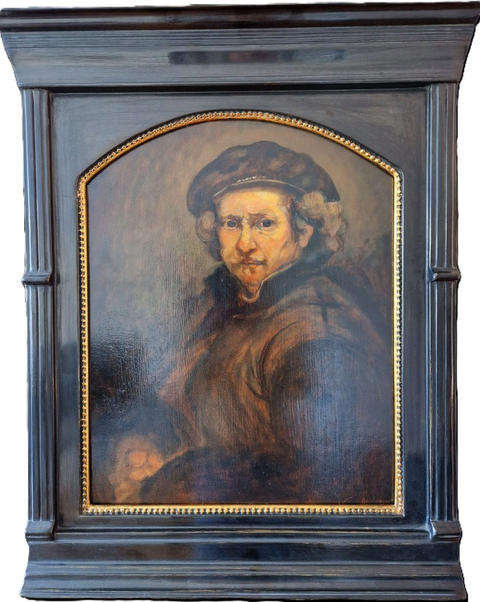
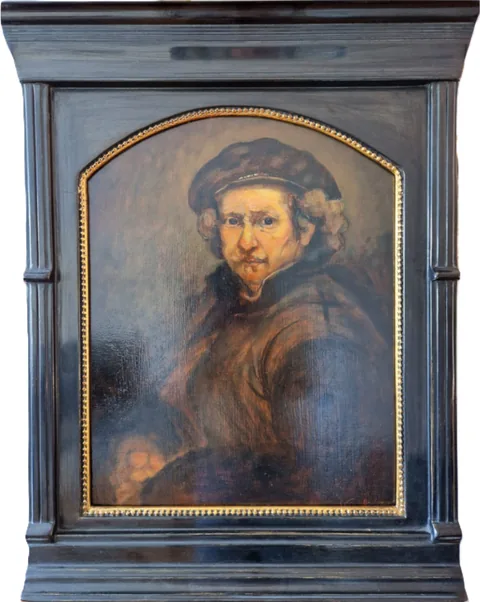
Fix portfolio/about layout issues and update rembrandt portfolio asset

diff --git a/index.html b/index.html
@@ -1,4 +1,4 @@
-<!DOCTYPE html><html lang="nl"><head>
+<!DOCTYPE html><html lang="nl"><head>
 <meta charset="UTF-8">
     <meta name="viewport" content="width=device-width, initial-scale=1.0">
     <link rel="apple-touch-icon" sizes="180x180" href="favicon/apple-touch-icon.png">
@@ -16,14 +16,14 @@
 
       gtag('config', 'G-C3B1YW6YL1');
     </script>
-    <title>Lijstenmaker Voorhout | De Lijsterij � Maatwerk Inlijsten &amp; Restauratie</title>
+    <title>Lijstenmaker Voorhout | De Lijsterij ï¿½ Maatwerk Inlijsten &amp; Restauratie</title>
     <meta name="description" content="Lijstenmaker in Voorhout (Bollenstreek). Maatwerk inlijsten, museumglas en restauratie. Persoonlijk advies voor particulieren en kunstenaars. Bekijk het portfolio en plan een afspraak.">
     <link rel="canonical" href="https://delijsterij.nl/">
     <meta property="og:type" content="website">
     <meta property="og:locale" content="nl_NL">
     <meta property="og:url" content="https://delijsterij.nl/">
     <meta property="og:site_name" content="De Lijsterij">
-    <meta property="og:title" content="Lijstenmaker Voorhout | De Lijsterij � Maatwerk Inlijsten &amp; Restauratie">
+    <meta property="og:title" content="Lijstenmaker Voorhout | De Lijsterij ï¿½ Maatwerk Inlijsten &amp; Restauratie">
     <meta property="og:description" content="Lijstenmaker in Voorhout (Bollenstreek). Maatwerk inlijsten, museumglas en restauratie. Persoonlijk advies voor particulieren en kunstenaars. Bekijk het portfolio en plan een afspraak.">
     <meta property="og:image" content="https://delijsterij.nl/assets/images/portfolio/bekroond-tabernakellijst.jpg">
     <meta name="twitter:card" content="summary_large_image">
@@ -51,8 +51,8 @@
     <link rel="preconnect" href="https://fonts.googleapis.com">
     <link rel="preconnect" href="https://fonts.gstatic.com" crossorigin="">
     <link href="https://fonts.googleapis.com/css2?family=Playfair+Display:ital,wght@0,400;0,500;1,400;1,500&amp;family=DM+Sans:wght@300;400;500&amp;display=swap" rel="stylesheet">
-    <link rel="preload" href="assets/css/main.css?v=20260502ui1" as="style" onload="this.onload=null;this.rel='stylesheet'">
-    <noscript><link rel="stylesheet" href="assets/css/main.css?v=20260502ui1"></noscript>
+    <link rel="preload" href="assets/css/main.css?v=20260504ui2" as="style" onload="this.onload=null;this.rel='stylesheet'">
+    <noscript><link rel="stylesheet" href="assets/css/main.css?v=20260504ui2"></noscript>
   </head>
   <body>
 <header class="site-header site-header--home" id="top">
@@ -103,7 +103,7 @@
           </p>
           <p class="hero-sub hero-sub--secondary" data-content-key="index.hero-sub.2">
             Of het nu gaat om een modern werk of een dierbare herinnering: ik zorg ervoor dat elk
-            object de aandacht en bescherming krijgt die het verdient � uit liefde voor kunst
+            object de aandacht en bescherming krijgt die het verdient ï¿½ uit liefde voor kunst
             en schoonheid is De Lijsterij ontstaan.
           </p>
           <div class="hero-pillars">
@@ -149,12 +149,12 @@
           <div class="section-eyebrow" data-content-key="index.section-eyebrow.1">Inlijsten</div>
           <h2 data-content-key="index.h2.1">Wat De Lijsterij voor u kan <em>betekenen</em></h2>
           <p class="section-sub" data-content-key="index.section-sub.1">
-            Van kunst en foto�s tot sporttrofee�n, borduurwerk, kledingstukken en
+            Van kunst en fotoï¿½s tot sporttrofeeï¿½n, borduurwerk, kledingstukken en
             bijzondere objecten: er is vaak veel meer mogelijk dan u denkt.
           </p>
           <p class="section-sub" data-content-key="index.section-sub.2">
             Met maatwerk, passe-partout, museumglas en persoonlijk advies zoeken we samen naar een
-            oplossing die recht doet aan het werk �n aan uw interieur.
+            oplossing die recht doet aan het werk ï¿½n aan uw interieur.
           </p>
         </div>
         <div class="diensten-grid">
@@ -193,7 +193,7 @@
               <div class="dienst-name" data-content-key="index.dienst-name.3">Museumglas</div>
               <p class="dienst-desc" data-content-key="index.dienst-desc.3">
                 Anti-reflecterend en UV-werend glas beschermt uw kunstwerk tegen licht, stof en
-                vocht � onzichtbaar maar essentieel.
+                vocht ï¿½ onzichtbaar maar essentieel.
               </p>
             </div>
             <div class="dienst-icon">
@@ -269,7 +269,7 @@
               <div class="portfolio-frame-deco"></div>
               <div class="portfolio-center">
                 <div class="portfolio-icon">
-                  Bekroond werk<br>Tabernakellijst � diepe kleurwerking
+                  Bekroond werk<br>Tabernakellijst ï¿½ diepe kleurwerking
                 </div>
               </div>
               <span class="portfolio-label" data-content-key="index.portfolio-label.1">Handgemaakte lijst</span>
@@ -279,7 +279,7 @@
             <div class="portfolio-inner portfolio-inner--bloemwerk">
               <div class="portfolio-frame-deco"></div>
               <div class="portfolio-center">
-                <div class="portfolio-icon">Schilderij � klassieke eiken lijst</div>
+                <div class="portfolio-icon">Schilderij ï¿½ klassieke eiken lijst</div>
               </div>
               <span class="portfolio-label" data-content-key="index.portfolio-label.2">Bloemwerk</span>
             </div>
@@ -288,7 +288,7 @@
             <div class="portfolio-inner portfolio-inner--restauratie">
               <div class="portfolio-frame-deco"></div>
               <div class="portfolio-center">
-                <div class="portfolio-icon">Restauratie � zwaar beschadigde lijst</div>
+                <div class="portfolio-icon">Restauratie ï¿½ zwaar beschadigde lijst</div>
               </div>
               <span class="portfolio-label" data-content-key="index.portfolio-label.3">Restauratie</span>
             </div>
@@ -297,7 +297,7 @@
             <div class="portfolio-inner portfolio-inner--objectlijst">
               <div class="portfolio-frame-deco"></div>
               <div class="portfolio-center">
-                <div class="portfolio-icon">Objectlijst � 3D-inlijsting</div>
+                <div class="portfolio-icon">Objectlijst ï¿½ 3D-inlijsting</div>
               </div>
               <span class="portfolio-label" data-content-key="index.portfolio-label.4">Bijzonder object</span>
             </div>
@@ -320,33 +320,33 @@
         </div>
         <div class="reviews-grid">
           <div class="review-card">
-            <div class="stars">?????</div>
+            <div class="stars">★★★★★</div>
             <p class="review-text" data-content-key="index.review-text.1">
               "Karolien begrijpt als kunstenaar zelf wat een werk nodig heeft. Ze kijkt naar het
               stuk, niet alleen naar de maat. Dat maakt het verschil."
             </p>
             <div class="review-author" data-content-key="index.review-author.1">
-              <strong>Yvonne Heemskerk</strong> � winnaar De Nieuwe Vermeer
+              <strong>Yvonne Heemskerk</strong> ï¿½ winnaar De Nieuwe Vermeer
             </div>
           </div>
           <div class="review-card">
-            <div class="stars">?????</div>
+            <div class="stars">★★★★★</div>
             <p class="review-text" data-content-key="index.review-text.2">
               "Karolien heeft echt de tijd genomen om naar mijn schilderij te kijken. Het resultaat
-              overtreft mijn verwachtingen � de lijst lijkt altijd al bij het werk te hebben
+              overtreft mijn verwachtingen ï¿½ de lijst lijkt altijd al bij het werk te hebben
               gehoord."
             </p>
             <div class="review-author" data-content-key="index.review-author.2">
-              <strong>Marjan V.</strong> � particuliere klant, Oegstgeest
+              <strong>Marjan V.</strong> ï¿½ particuliere klant, Oegstgeest
             </div>
           </div>
           <div class="review-card">
-            <div class="stars">?????</div>
+            <div class="stars">★★★★★</div>
             <p class="review-text" data-content-key="index.review-text.3">
               "Als fotograaf ben ik kieskeurig over hoe mijn werk gepresenteerd wordt. Bij De
               Lijsterij word ik echt gehoord. Prachtig vakmanschap, elke keer weer."
             </p>
-            <div class="review-author" data-content-key="index.review-author.3"><strong>Thomas B.</strong> � fotograaf, Leiden</div>
+            <div class="review-author" data-content-key="index.review-author.3"><strong>Thomas B.</strong> ï¿½ fotograaf, Leiden</div>
           </div>
         </div>
       </section>
@@ -359,7 +359,7 @@
             <div class="section-eyebrow section-eyebrow-accent" data-content-key="index.section-eyebrow.4">
               <span class="section-eyebrow-line"></span>Over Karolien
             </div>
-            <h2 data-content-key="index.h2.4">Karolien Kooiman �<br><em>kunstenaar &amp; inlijster</em></h2>
+            <h2 data-content-key="index.h2.4">Karolien Kooiman ï¿½<br><em>kunstenaar &amp; inlijster</em></h2>
             <p data-content-key="index.p.2">
               Uit liefde voor kunst en schoonheid is De Lijsterij geboren. Als kunstenaar begrijp ik
               als geen ander dat een werk naast financiele waarde ook een diepe emotionele betekenis
@@ -367,7 +367,7 @@
             </p>
             <p data-content-key="index.p.3">
               Daarom denk ik gepassioneerd met u mee over hoe uw kunstwerk het best tot zijn recht
-              komt � en het beste beschermd kan worden voor de volgende generaties.
+              komt ï¿½ en het beste beschermd kan worden voor de volgende generaties.
             </p>
             <p data-content-key="index.p.4">
               Ik werk uitsluitend met hoogwaardige, zuurvrije en archiveerbare materialen. Want een
@@ -415,7 +415,7 @@
                 in het atelier neem ik rustig de tijd om tot de juiste keuze te komen.
               </p>
               <p class="section-sub" data-content-key="index.section-sub.6">
-                Vrijblijvend advies, een offerte of gewoon even overleggen �<br>
+                Vrijblijvend advies, een offerte of gewoon even overleggen ï¿½<br>
                 alles is welkom. Ik neem graag de tijd voor u en uw werk.
               </p>
             </header>
@@ -426,7 +426,7 @@
               </div>
               <div class="contact-row">
                 <span class="contact-row-label" data-content-key="index.contact-row-label.2">Telefoon</span>
-                <a class="contact-row-val" href="tel:+31252123456">06 � 29 510 590</a>
+                <a class="contact-row-val" href="tel:+31252123456">06 ï¿½ 29 510 590</a>
               </div>
               <div class="contact-row">
                 <span class="contact-row-label" data-content-key="index.contact-row-label.3">E-mail</span>
@@ -438,8 +438,8 @@
               </div>
               <div class="contact-row">
                 <span class="contact-row-label" data-content-key="index.contact-row-label.5">Regio</span>
-                <span class="contact-row-val" data-content-key="index.contact-row-val.3">Voorhout � Noordwijk � Katwijk � Sassenheim � Lisse
-                  � Noordwijkerhout � Hillegom</span>
+                <span class="contact-row-val" data-content-key="index.contact-row-val.3">Voorhout ï¿½ Noordwijk ï¿½ Katwijk ï¿½ Sassenheim ï¿½ Lisse
+                  ï¿½ Noordwijkerhout ï¿½ Hillegom</span>
               </div>
             </div>
           </div>
@@ -482,7 +482,7 @@
         <span>De <em>Lijsterij</em></span>
       </div>
       <div class="footer-mid">
-        <div class="footer-copy">� 2026 De Lijsterij</div>
+        <div class="footer-copy">ï¿½ 2026 De Lijsterij</div>
       </div>
       <div class="footer-links">Design by Valknut</div>
     </footer>

diff --git a/portfolio.html b/portfolio.html
@@ -1,4 +1,4 @@
-<!DOCTYPE html><html lang="nl"><head>
+<!DOCTYPE html><html lang="nl"><head>
     <meta charset="UTF-8">
     <meta name="viewport" content="width=device-width, initial-scale=1.0">
     <link rel="apple-touch-icon" sizes="180x180" href="favicon/apple-touch-icon.png">
@@ -15,21 +15,21 @@
       gtag('config', 'G-C3B1YW6YL1');
     </script>
     <title>Portfolio ingelijst werk | De Lijsterij Voorhout</title>
-    <meta name="description" content="Tabernakellijsten, klassiek schilderijlijstwerk en objectlijsten uit het atelier in Voorhout. Laat u inspireren — plan daarna een afspraak voor uw eigen inlijsting.">
+    <meta name="description" content="Tabernakellijsten, klassiek schilderijlijstwerk en objectlijsten uit het atelier in Voorhout. Laat u inspireren â€” plan daarna een afspraak voor uw eigen inlijsting.">
     <link rel="canonical" href="https://delijsterij.nl/portfolio.html">
     <meta property="og:type" content="website">
     <meta property="og:locale" content="nl_NL">
     <meta property="og:url" content="https://delijsterij.nl/portfolio.html">
     <meta property="og:site_name" content="De Lijsterij">
     <meta property="og:title" content="Portfolio ingelijst werk | De Lijsterij Voorhout">
-    <meta property="og:description" content="Tabernakellijsten, klassiek schilderijlijstwerk en objectlijsten uit het atelier in Voorhout. Laat u inspireren — plan daarna een afspraak voor uw eigen inlijsting.">
+    <meta property="og:description" content="Tabernakellijsten, klassiek schilderijlijstwerk en objectlijsten uit het atelier in Voorhout. Laat u inspireren â€” plan daarna een afspraak voor uw eigen inlijsting.">
     <meta property="og:image" content="https://delijsterij.nl/assets/images/portfolio/bekroond-tabernakellijst.jpg">
     <meta name="twitter:card" content="summary_large_image">
     <link rel="preconnect" href="https://fonts.googleapis.com">
     <link rel="preconnect" href="https://fonts.gstatic.com" crossorigin="">
     <link href="https://fonts.googleapis.com/css2?family=Playfair+Display:ital,wght@0,400;0,500;1,400;1,500&amp;family=DM+Sans:wght@300;400;500&amp;display=swap" rel="stylesheet">
-    <link rel="preload" href="assets/css/main.css?v=20260502ui7" as="style" onload="this.onload=null;this.rel='stylesheet'">
-    <noscript><link rel="stylesheet" href="assets/css/main.css?v=20260502ui7"></noscript>
+    <link rel="preload" href="assets/css/main.css?v=20260504ui12" as="style" onload="this.onload=null;this.rel='stylesheet'">
+    <noscript><link rel="stylesheet" href="assets/css/main.css?v=20260504ui12"></noscript>
   </head>
   <body class="page-portfolio">
     <header class="site-header">
@@ -156,11 +156,11 @@
             <div class="section-eyebrow section-eyebrow-accent" data-content-key="portfolio.section-eyebrow.3">
               <span class="section-eyebrow-line"></span>Bekroond werk
             </div>
-            <h2 data-content-key="portfolio.h2.3">Tabernakellijsten —<br><em>traditie die blijft spreken</em></h2>
+            <h2 data-content-key="portfolio.h2.3">Tabernakellijsten â€”<br><em>traditie die blijft spreken</em></h2>
             <p data-content-key="portfolio.p.3">
               De tabernakellijst vindt haar oorsprong in de renaissance en is voor mij meer dan een
-              omlijsting. Door de architectonische opbouw — met zuilen, een bekroning en gelaagde
-              diepte — wordt de lijst een verlengstuk van het kunstwerk. Ze brengt rust, nadruk en
+              omlijsting. Door de architectonische opbouw â€” met zuilen, een bekroning en gelaagde
+              diepte â€” wordt de lijst een verlengstuk van het kunstwerk. Ze brengt rust, nadruk en
               aanwezigheid, en maakt dat een werk echt tot zijn recht komt.
             </p>
             <p data-content-key="portfolio.p.4">
@@ -215,7 +215,7 @@
             </a>
             <div class="portfolio-work-copy">
               <h3 data-content-key="portfolio.h3.3">Restauraties</h3>
-              <p data-content-key="portfolio.p.7">Voorbeelden van herstelwerk met “voor en na”.</p>
+              <p data-content-key="portfolio.p.7">Voorbeelden van herstelwerk met â€œvoor en naâ€.</p>
               <p data-content-key="portfolio.p.8"><a href="restauraties.html" style="color: inherit; font-weight: 500; text-decoration: underline">Meer over restauratie</a></p>
             </div>
           </article>
@@ -306,7 +306,7 @@
                   <h3 data-content-key="portfolio.h3.8">Stof en steek</h3>
                   <p data-content-key="portfolio.p.13">
                     Geborduurd blousewerk vraagt om een lichte lijst die het textiel beschermt zonder het
-                    plat te drukken, zodat de kleur en het reliëf van de steek rustig zichtbaar blijven
+                    plat te drukken, zodat de kleur en het reliÃ«f van de steek rustig zichtbaar blijven
                     achter glas.
                   </p>
                 </div>
@@ -473,7 +473,7 @@
         <span>De <em>Lijsterij</em></span>
       </div>
       <div class="footer-mid">
-        <div class="footer-copy">© 2026 De Lijsterij</div>
+        <div class="footer-copy">Â© 2026 De Lijsterij</div>
       </div>
       <div class="footer-links">Design by Valknut</div>
     </footer>

diff --git a/assets/css/main.css b/assets/css/main.css
@@ -1434,8 +1434,8 @@ h2 em {
 
 .review-text {
   font-family: 'Playfair Display', serif;
-  font-style: italic;
-  font-size: clamp(22px, 2.2vw, 30px);
+  font-style: normal;
+  font-size: clamp(18px, 1.8vw, 20px);
   line-height: 1.65;
   color: var(--ink);
   margin-bottom: 1.25rem;
@@ -2371,7 +2371,7 @@ footer {
   width: 100%;
   max-width: 560px;
   justify-self: start;
-  margin-left: -15rem;
+  margin-left: 0;
 }
 
 .story-grid--about .section-header {
@@ -2834,17 +2834,29 @@ footer {
   gap: 1.75rem;
   padding: 1.15rem;
   background: var(--cream);
+  align-items: center;
 }
 
 .portfolio-feature-image--duo img {
-  min-height: 520px;
+  min-height: 0;
+  height: auto;
+  object-fit: contain;
 }
 
 .portfolio-feature-image-rembrandt {
   background: #fff;
-  object-fit: cover;
-  object-position: 54% 49%;
+  object-fit: contain;
+  object-position: center;
   padding: 6px;
+}
+
+@media (max-width: 1200px) {
+  body.page-portfolio .portfolio-feature-image--duo img {
+    height: auto !important;
+    min-height: 0 !important;
+    max-height: none !important;
+    object-fit: contain !important;
+  }
 }
 
 .portfolio-feature-copy {

diff --git a/over-ons.html b/over-ons.html
@@ -28,8 +28,8 @@
     <link rel="preconnect" href="https://fonts.googleapis.com">
     <link rel="preconnect" href="https://fonts.gstatic.com" crossorigin="">
     <link href="https://fonts.googleapis.com/css2?family=Playfair+Display:ital,wght@0,400;0,500;1,400;1,500&amp;family=DM+Sans:wght@300;400;500&amp;display=swap" rel="stylesheet">
-    <link rel="preload" href="assets/css/main.css?v=20260502hero3" as="style" onload="this.onload=null;this.rel='stylesheet'">
-    <noscript><link rel="stylesheet" href="assets/css/main.css?v=20260502hero3"></noscript>
+    <link rel="preload" href="assets/css/main.css?v=20260504hero6" as="style" onload="this.onload=null;this.rel='stylesheet'">
+    <noscript><link rel="stylesheet" href="assets/css/main.css?v=20260504hero6"></noscript>
   </head>
   <body class="page-over-ons">
     <header class="site-header">
